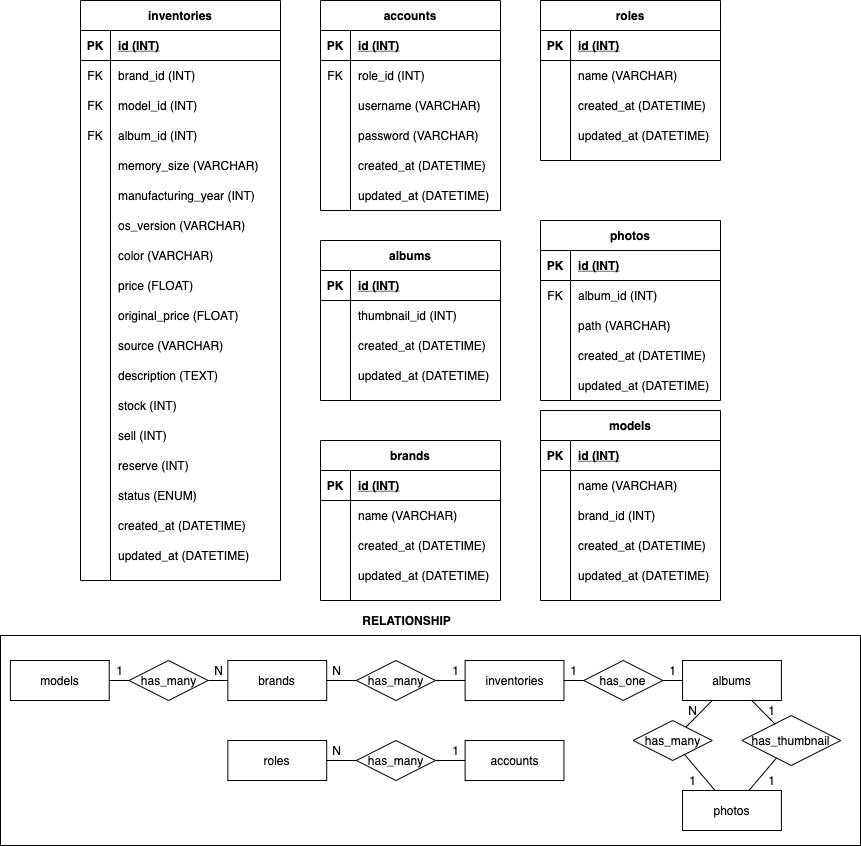
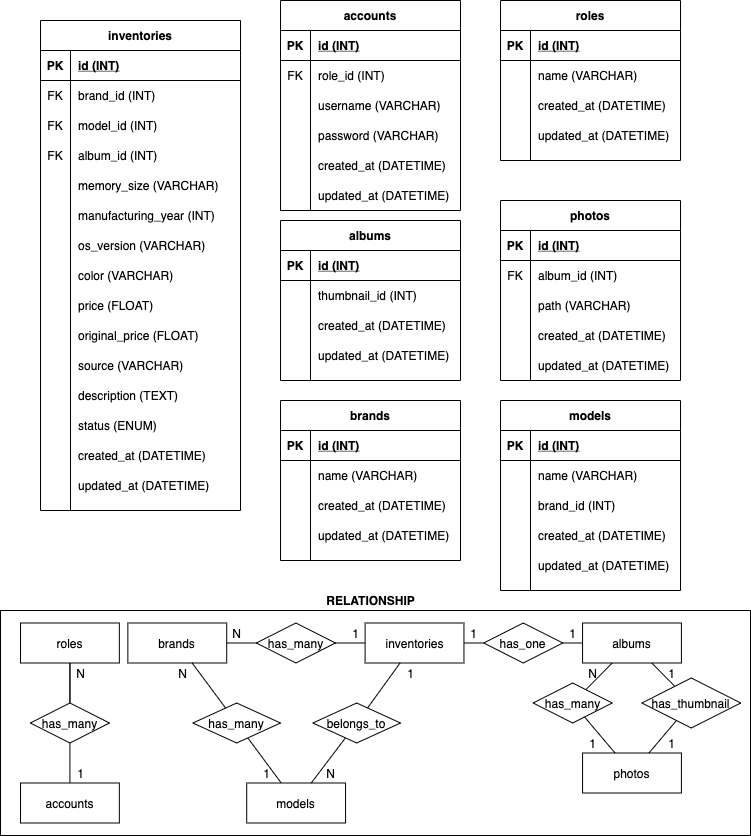
Change DB: remove stock amount attributes and write a keep-track note

diff --git a/db_requirement.md b/db_requirement.md
@@ -1,0 +1,18 @@
+# Database design note
+
+Tables: Inventories, Accounts, Roles, Brands, Models, Albums, Photos.
+
+Auto-generate ID as primary key for each entities.
+
+## Inventories
+Belongs to 1 brand, 1 model and has 1 album of photos => Foreign key to brand_id, model_id, album_id
+
+## Albums and Photos
+Inventories and Albums are one-to-one relationship => Foreign key in Inventories (accept NULL).
+
+Album has many photos, a set of photos belongs to an album, choose one photo as thumbnail for album (FK thumbnail_id).
+
+## Accounts and Roles
+Account can only be 1 role (currently).
+
+Roles may represent for a set of accordance rights (decide later).
